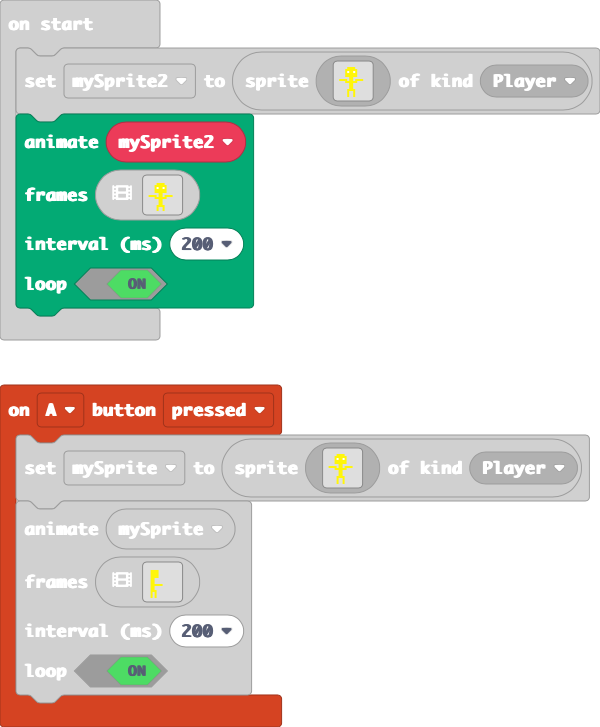
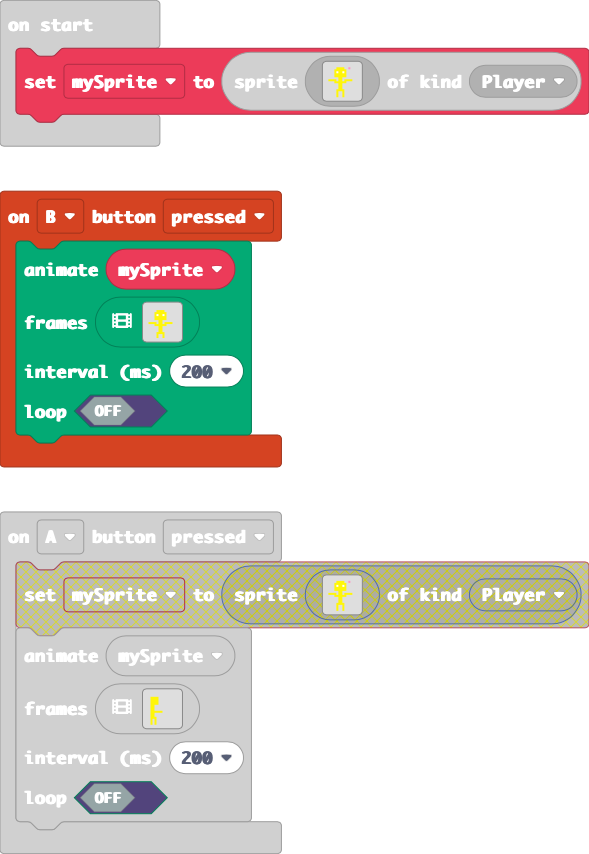
Update main.blocks, main.ts, images.g.jres, images.g.ts

diff --git a/images.g.ts b/images.g.ts
@@ -25,7 +25,7 @@ namespace myImages {
             case "image2":
             case "stick man":return img`
 . . . . . . . . . . . . . . . . 
-. . . . . 5 5 5 5 . . . . . . . 
+. . . . . 5 5 5 5 . . 3 . . . . 
 . . . . 5 5 5 5 5 5 . . . . . . 
 . . . . 5 1 5 5 1 5 . . . . . . 
 . . . . 5 5 5 5 5 5 . . . . . . 
@@ -740,6 +740,178 @@ eeeee5555...............
 ......5.5...............
 ......5.5...............
 ......5.5...............
+`];
+            case "climbing":
+            case "anim6":return [img`
+. . . . . . . . . . . . . . . . 
+. . . . . 5 5 5 5 . . . . . . . 
+. . . . 5 5 5 5 5 5 . . . . . . 
+. . . . 5 1 5 5 1 5 . . . . . . 
+. . . . 5 5 5 5 5 5 . . . . . . 
+. . . . 5 5 5 5 5 5 . . . . . . 
+. . . . . . 5 5 . . . . . . . . 
+. 5 5 5 5 . 5 5 . 5 5 5 5 . . . 
+. . . . 5 5 5 5 5 5 . . . . . . 
+. . . . . . 5 5 . . . . . . . . 
+. . . . . . 5 5 . . . . . . . . 
+. . . . . . 5 5 . . . . . . . . 
+. . . . . 5 5 5 5 . . . . . . . 
+. . . . . 5 . . 5 . . . . . . . 
+. . . . . 5 . . 5 . . . . . . . 
+. . . . . 5 . . 5 . . . . . . . 
+`, img`
+. . . . . . . . . . . . . . . . 
+. . . . . . 5 5 5 5 . . . . . . 
+. . . . . 5 5 5 5 5 5 . . . . . 
+. . . . . 5 5 5 5 5 5 . . . . . 
+. . . . . 5 5 5 5 5 5 . . . . . 
+. . . . . 5 5 5 5 5 5 . . . . . 
+. . . 5 5 . . 5 5 . . 5 5 . . . 
+. . . . 5 5 . 5 5 . 5 5 . . . . 
+. . . . . 5 5 5 5 5 5 . . . . . 
+. . . . . . . 5 5 . . . . . . . 
+. . . . . . . 5 5 . . . . . . . 
+. . . . . . . 5 5 . . . . . . . 
+. . . . . . 5 5 5 5 . . . . . . 
+. . . . . . 5 . . 5 . . . . . . 
+. . . . . 5 5 . . 5 5 . . . . . 
+. . . . . 5 . . . . 5 . . . . . 
+`, img`
+. . . . . . . . . . . . . . . . 
+. . . . . . 5 5 5 5 . . . . . . 
+. . . . . 5 5 5 5 5 5 . . . . . 
+. . . . . 5 5 5 5 5 5 . . . . . 
+. . . . . 5 5 5 5 5 5 . . . . . 
+. . . . . 5 5 5 5 5 5 . . . . . 
+. . . 5 5 . . 5 5 . . 5 5 . . . 
+. . . . 5 5 . 5 5 . 5 5 . . . . 
+. . . . . 5 5 5 5 5 5 . . . . . 
+. . . . . . . 5 5 . . . . . . . 
+. . . . . . . 5 5 . . . . . . . 
+. . . . . . . 5 5 . . . . . . . 
+. . . . . 5 5 5 5 5 5 . . . . . 
+. . . . . 5 . . . . 5 . . . . . 
+. . . . 5 5 . . . . 5 5 . . . . 
+. . . . . . . . . . . . . . . . 
+`, img`
+. . . . . . . . . . . . . . . . 
+. . . . . . 5 5 5 5 . . . . . . 
+. . . . . 5 5 5 5 5 5 . . . . . 
+. . . . . 5 5 5 5 5 5 . . . . . 
+. . . . . 5 5 5 5 5 5 . . . . . 
+. . . . . 5 5 5 5 5 5 . . . . . 
+. . . 5 5 . . 5 5 . . 5 5 . . . 
+. . . . 5 5 . 5 5 . 5 5 . . . . 
+. . . . . 5 5 5 5 5 5 . . . . . 
+. . . . . . . 5 5 . . . . . . . 
+. . . . . . . 5 5 . . . . . . . 
+. . . . . . . 5 5 . . . . . . . 
+. . . . . 5 5 5 5 5 5 . . . . . 
+. . . . . 5 . . . . 5 . . . . . 
+. . . . 5 5 . . . . 5 5 . . . . 
+. . . . . . . . . . . . . . . . 
+`, img`
+. . . . . . . . . . . . . . . . 
+. . . . . 5 5 5 5 . . . . . . . 
+. . . . 5 5 5 5 5 5 . . . . . . 
+. . . . 5 1 5 5 1 5 . . . . . . 
+. . . . 5 5 5 5 5 5 . . . . . . 
+. . . . 5 5 5 5 5 5 . . . . . . 
+. . . . . . 5 5 . . . . . . . . 
+. 5 5 5 5 . 5 5 . 5 5 5 5 . . . 
+. . . . 5 5 5 5 5 5 . . . . . . 
+. . . . . . 5 5 . . . . . . . . 
+. . . . . . 5 5 . . . . . . . . 
+. . . . . . 5 5 . . . . . . . . 
+. . . . . 5 5 5 5 . . . . . . . 
+. . . . . 5 . . 5 . . . . . . . 
+. . . . . 5 . . 5 . . . . . . . 
+. . . . . 5 . . 5 . . . . . . . 
+`, img`
+. . . . . . . . . . . . . . . . 
+. . . . . . 5 5 5 5 . . . . . . 
+. . . . . 5 5 5 5 5 5 . . . . . 
+. . . . . 5 5 5 5 5 5 . . . . . 
+. . . . . 5 5 5 5 5 5 . . . . . 
+. . . . . 5 5 5 5 5 5 . . . . . 
+. . . 5 5 . . 5 5 . . 5 5 . . . 
+. . . . 5 5 . 5 5 . 5 5 . . . . 
+. . . . . 5 5 5 5 5 5 . . . . . 
+. . . . . . . 5 5 . . . . . . . 
+. . . . . . . 5 5 . . . . . . . 
+. . . . . . . 5 5 . . . . . . . 
+. . . . . . 5 5 5 5 . . . . . . 
+. . . . . . 5 . . 5 . . . . . . 
+. . . . . 5 5 . . 5 5 . . . . . 
+. . . . . 5 . . . . 5 . . . . . 
+`, img`
+. . . . . . . . . . . . . . . . 
+. . . . . . 5 5 5 5 . . . . . . 
+. . . . . 5 5 5 5 5 5 . . . . . 
+. . . . . 5 5 5 5 5 5 . . . . . 
+. . . . . 5 5 5 5 5 5 . . . . . 
+. . . . . 5 5 5 5 5 5 . . . . . 
+. . . 5 5 . . 5 5 . . 5 5 . . . 
+. . . . 5 5 . 5 5 . 5 5 . . . . 
+. . . . . 5 5 5 5 5 5 . . . . . 
+. . . . . . . 5 5 . . . . . . . 
+. . . . . . . 5 5 . . . . . . . 
+. . . . . . . 5 5 . . . . . . . 
+. . . . . 5 5 5 5 5 5 . . . . . 
+. . . . . 5 . . . . 5 . . . . . 
+. . . . 5 5 . . . . 5 5 . . . . 
+. . . . . . . . . . . . . . . . 
+`, img`
+. . . . . . . . . . . . . . . . 
+. . . . . 5 5 5 5 . . . . . . . 
+. . . . 5 5 5 5 5 5 . . . . . . 
+. . . . 5 1 5 5 1 5 . . . . . . 
+. . . . 5 5 5 5 5 5 . . . . . . 
+. . . . 5 5 5 5 5 5 . . . . . . 
+. . . . . . 5 5 . . . . . . . . 
+. 5 5 5 5 . 5 5 . 5 5 5 5 . . . 
+. . . . 5 5 5 5 5 5 . . . . . . 
+. . . . . . 5 5 . . . . . . . . 
+. . . . . . 5 5 . . . . . . . . 
+. . . . . . 5 5 . . . . . . . . 
+. . . . . 5 5 5 5 . . . . . . . 
+. . . . . 5 . . 5 . . . . . . . 
+. . . . . 5 . . 5 . . . . . . . 
+. . . . . 5 . . 5 . . . . . . . 
+`, img`
+. . . . . . . . . . . . . . . . 
+. . . . . . 5 5 5 5 . . . . . . 
+. . . . . 5 5 5 5 5 5 . . . . . 
+. . . . . 5 5 5 5 5 5 . . . . . 
+. . . . . 5 5 5 5 5 5 . . . . . 
+. . . . . 5 5 5 5 5 5 . . . . . 
+. . . 5 5 . . 5 5 . . 5 5 . . . 
+. . . . 5 5 . 5 5 . 5 5 . . . . 
+. . . . . 5 5 5 5 5 5 . . . . . 
+. . . . . . . 5 5 . . . . . . . 
+. . . . . . . 5 5 . . . . . . . 
+. . . . . . . 5 5 . . . . . . . 
+. . . . . . 5 5 5 5 . . . . . . 
+. . . . . . 5 . . 5 . . . . . . 
+. . . . . 5 5 . . 5 5 . . . . . 
+. . . . . 5 . . . . 5 . . . . . 
+`, img`
+. . . . . . . . . . . . . . . . 
+. . . . . 5 5 5 5 . . . . . . . 
+. . . . 5 5 5 5 5 5 . . . . . . 
+. . . . 5 1 5 5 1 5 . . . . . . 
+. . . . 5 5 5 5 5 5 . . . . . . 
+. . . . 5 5 5 5 5 5 . . . . . . 
+. . . . . . 5 5 . . . . . . . . 
+. 5 5 5 5 . 5 5 . 5 5 5 5 . . . 
+. . . . 5 5 5 5 5 5 . . . . . . 
+. . . . . . 5 5 . . . . . . . . 
+. . . . . . 5 5 . . . . . . . . 
+. . . . . . 5 5 . . . . . . . . 
+. . . . . 5 5 5 5 . . . . . . . 
+. . . . . 5 . . 5 . . . . . . . 
+. . . . . 5 . . 5 . . . . . . . 
+. . . . . 5 . . 5 . . . . . . . 
 `];
         }
         return null;

diff --git a/main.ts b/main.ts
@@ -1,17 +1,18 @@
+controller.B.onEvent(ControllerButtonEvent.Pressed, function () {
+    animation.runImageAnimation(
+    mySprite,
+    assets.animation`walking`,
+    200,
+    false
+    )
+})
 controller.A.onEvent(ControllerButtonEvent.Pressed, function () {
-    mySprite = sprites.create(assets.image`stick man`, SpriteKind.Player)
     animation.runImageAnimation(
     mySprite,
     assets.animation`hand shake`,
     200,
-    true
+    false
     )
 })
 let mySprite: Sprite = null
-let mySprite2 = sprites.create(assets.image`stick man`, SpriteKind.Player)
-animation.runImageAnimation(
-mySprite2,
-assets.animation`walking`,
-200,
-true
-)
+mySprite = sprites.create(assets.image`stick man`, SpriteKind.Player)
